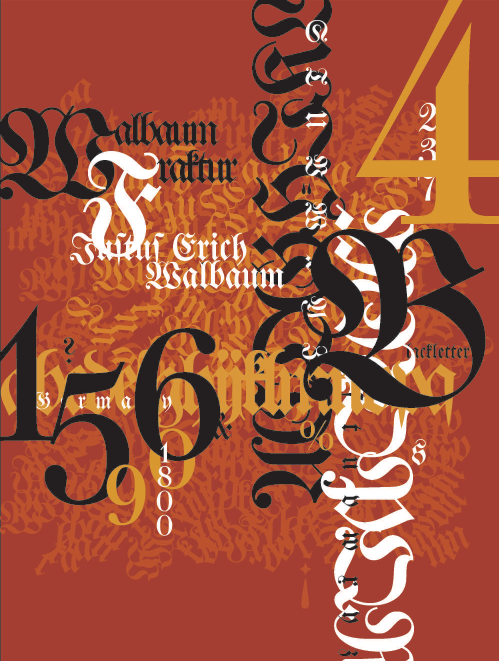
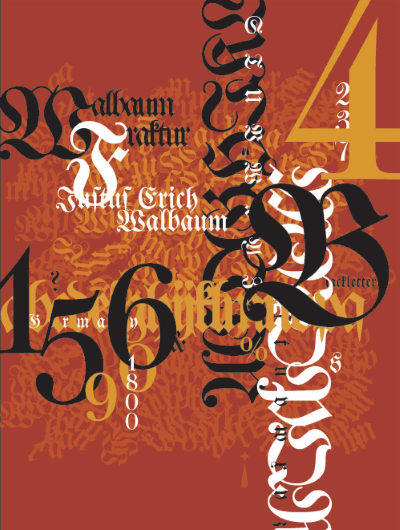
12/11/23 update
added typography

diff --git a/designportfolio.html b/designportfolio.html
@@ -111,7 +111,27 @@
                 </div>
             </section>
             <section>
-                
+                <div id="baskerville_image">
+                    <img src="img/redd.jpg">
+                </div>
+                <div id="baskerville_description">
+                    <h2>Baskerville Poster</h2>
+                    <hr>
+                    <p>2023<br>This typography project was made to demonstrate a font's use in its entirety. This poster features a full specimen of Baskerville, presented in a way that honors the style of John Baskerville while experimenting with form and grouping.
+                    <br> <br> "John Baskerville of Birmingham, England, was a pioneer of type and widely regarded as critical to what is known as the English Urban Renaissance. Before he began his career as a typographer, Baskerville amassed wealth through his talent as a japanner, giving him the experience with ink and surface finishes that would inform the more unique qualities of his work. His typeface, Baskerville, which he made in 1757, is characterized by its precision and contrast; its thin parts are thinner, and thicker parts thicker. In other words, he introduced the transitional style. By working towards perfecting Caslon, he also led the way for modern Roman fonts like Didot and Bodoni. Further, because of his former experiences, Baskerville’s ink and paper treatments made his work notably brilliant in appearance. Overall, his work was critical to the furthering of typography and printing in England."</p>
+                </div>
+            </section>
+            <section>
+                <div id="franklin_image">
+                    <img src="img/franklin_sources.jpg">
+                </div>
+                <div id="franklin_description">
+                    <h2> Franklin Gothic Poster</h2>
+                    <hr>
+                    <p>2023<br>This typography project was made to demonstrate a font's use in its entirety. This poster features a full specimen of Franklin Gothic, and explores the its modern, streamlined look in contructing a typographic form.
+                    <br> <br> "Franklin Gothic is a gothic sans serif typeface developed in 1902 in New Jersey by Morris Fuller Benton, a man widely noted as America’s most prolific type designer. Before developing Franklin Gothic, Benton was influenced heavily by his father, Linn Boyd Benton, another influential type designer who worked at the ATF for forty years. In addition, Benton studied the historical exemplars in the ATF’s collection, in preparation for inventing what would be a fresh, new, modern typeface. This is important because these older influences helped shape the font. It’s characterized by subtle thick and thin contrasts and streamlined look, like many sans-serifs; however, it retains the two-story “a” and “g”, along with the curved “Q” tail. The font is a modernization of the styles that came before it, paralleling the grotesque typefaces in Europe at the time."
+                </p>
+                </div>
             </section>
         </main>
 

diff --git a/css/style.css b/css/style.css
@@ -211,14 +211,14 @@ section{
     text-align:left;
 }
 
-    #awe_in_nature_image{
-        grid-column-start:3;
-        max-width: 300px;
-    }
+#awe_in_nature_image{
+    grid-column-start:3;
+    max-width: 300px;
+}
 
-    #the_sublime_wave_image{
-        max-width: 300px;
-    }
+#the_sublime_wave_image{
+    max-width: 300px;
+}
 
 #awe_spread_2_description{
     grid-column-start: 5;
@@ -247,6 +247,7 @@ section{
     max-width: 300px;
     grid-column-start: 3;
     display: block;
+    margin-right: 150px;
 }
 
 #walbaum_description{
@@ -254,6 +255,23 @@ section{
     grid-column-start: 1;
     grid-column-end: 2;
     display: block;
+}
+
+#baskerville_image{
+    grid-column:2/5;
+}
+
+#baskerville_description{
+    grid-column: 6/10;
+}
+
+#franklin_image{
+    grid-column-start: 5;
+}
+
+#franklin_description{
+    grid-column-start:2;
+    text-align: right;
 }
 
 
